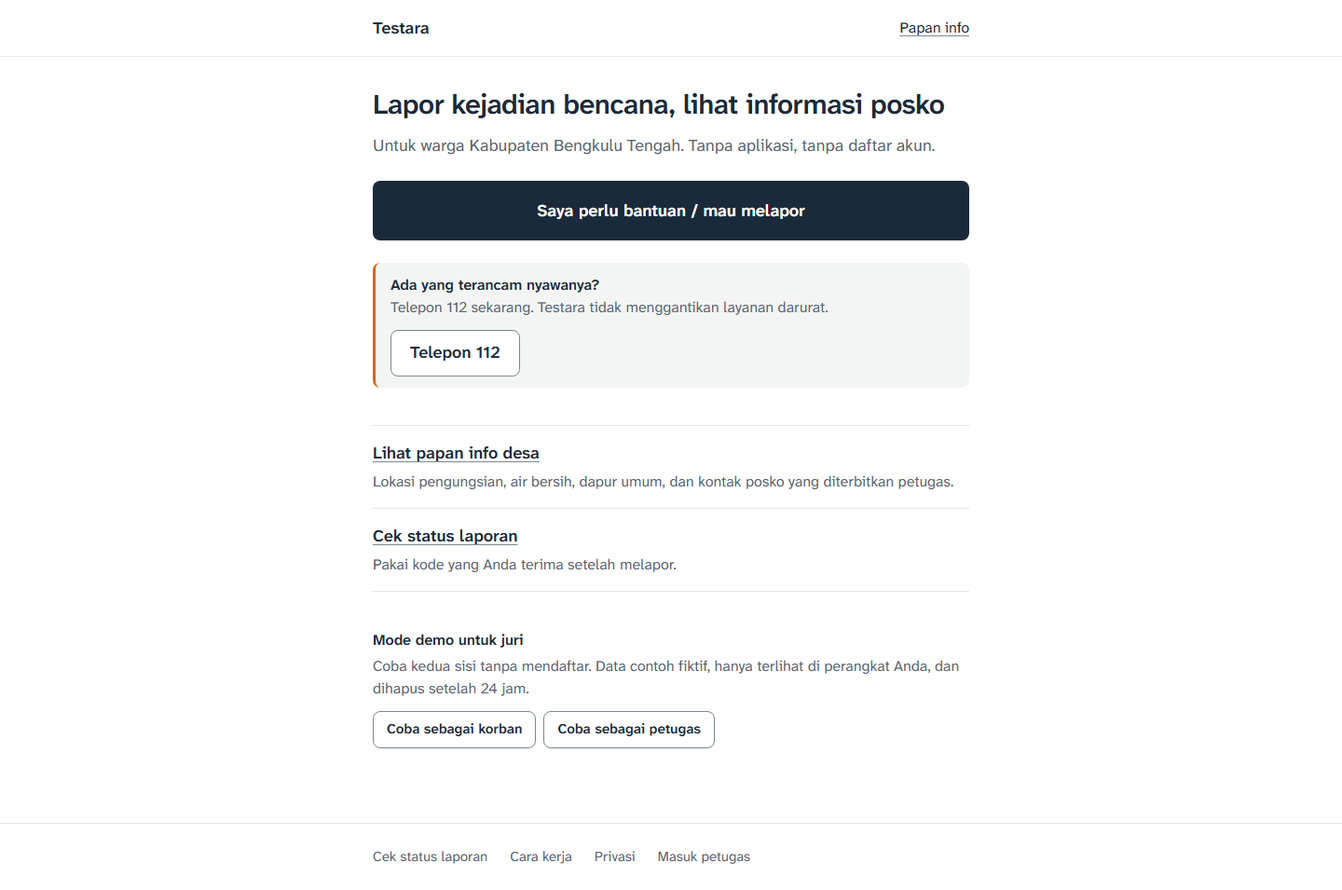
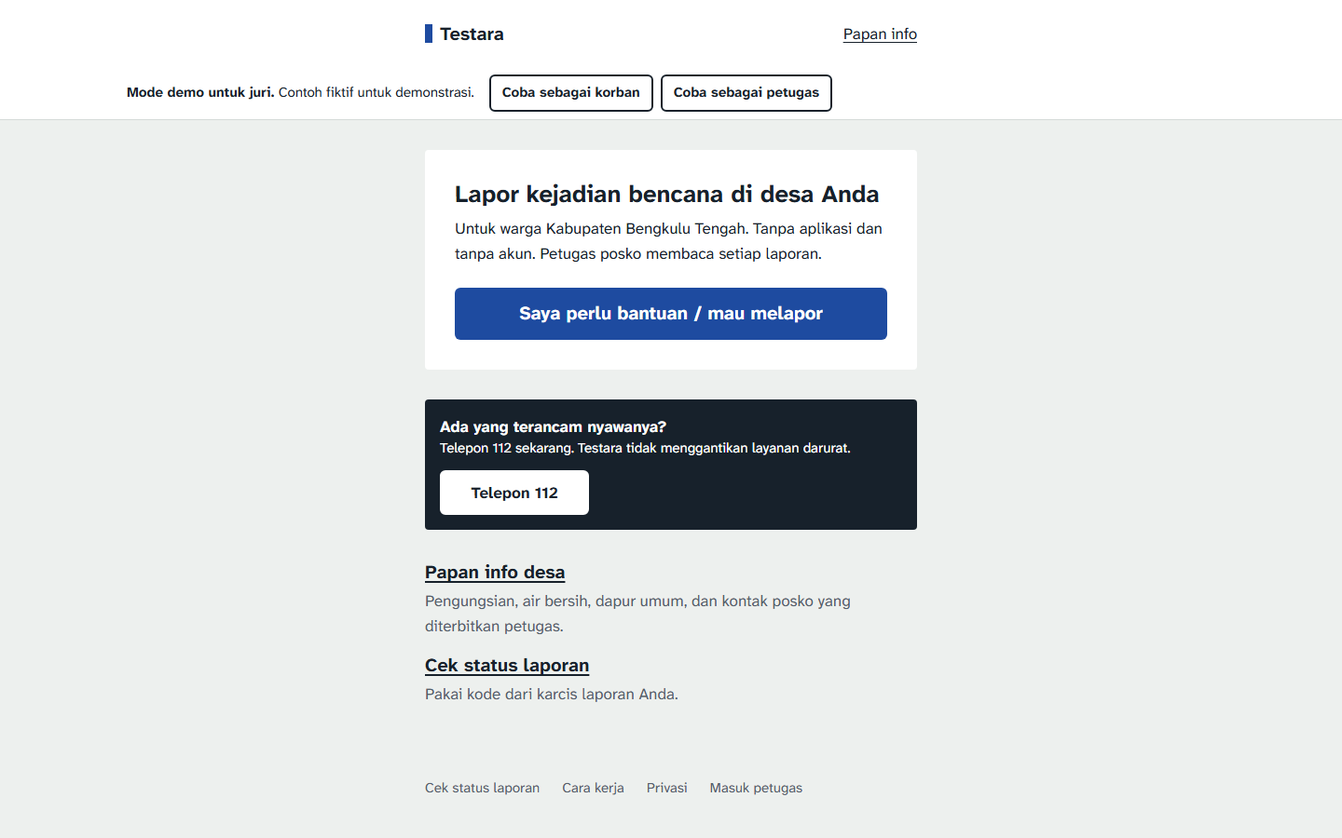
docs: tulis ulang DESIGN.md arah karcis, screenshot after, dan hasil audit

diff --git a/docs/DESIGN.md b/docs/DESIGN.md
@@ -1,239 +1,133 @@
-# Rencana desain Testara
+# Desain Testara: karcis dan papan tulis posko
 
-Diputuskan dalam mode otonom (CLAUDE.md Bagian 0A dan 7). Silakan tinjau; semua nilai ada di satu tempat (`src/app/globals.css`) sehingga mudah diubah.
+Arah ini dipilih pada 16 November 2026 dan menggantikan semua arahan desain sebelumnya. Audit,
+dua arah yang dibandingkan, dan screenshot sebelum/sesudah ada di
+[`docs/design-audit/`](design-audit/AUDIT.md). Semua token ada di satu tempat:
+[`src/app/globals.css`](../src/app/globals.css).
+
+## Konsep
+
+Setiap laporan adalah **karcis** yang disobek dari blok posko, dan setiap papan info adalah
+**papan tulis** yang ditulisi petugas. Korban mengenal karcis dari antrean puskesmas, bank, dan
+posko: "saya sudah dapat nomor, tinggal menunggu." Petugas mengenal papan tulis posko sebagai
+tempat angka ditulis, dicoret, dan ditandai stabilo.
 
 ## Prinsip
 
-1. **Dua wajah, satu identitas.** Sisi korban lapang dan tenang; sisi petugas padat seperti meja kerja. Token warna, huruf, dan nada bahasa sama.
-2. **Satu tugas per layar untuk korban.** Halaman lapor adalah satu kolom, urutan pertanyaan mengikuti cara orang bercerita: di mana, butuh apa, siapa yang perlu didahulukan, ceritanya.
-3. **Keberanian visual hanya di tanda terima.** Kode laporan besar, kalimat penenang, linimasa status. Elemen lain tenang.
-4. **Oranye berarti "perlu tindakan".** Tidak dipakai untuk hiasan. Stabilo kuning hanya untuk kutipan sumber.
-5. **Ringan.** Halaman korban tanpa library UI, tanpa gambar, satu keluarga huruf.
+1. **Satu aksi utama per layar**, berwarna spidol biru penuh. Aksi lain bergaris tinta atau
+   bergaris bawah.
+2. **Bagian dipisah dengan ruang.** Halaman berlatar papan; isi utama di atas satu lembar putih.
+   Tidak ada kotak di dalam kotak, kecuali isian dan pemberitahuan yang memang meminta perhatian.
+3. **Setiap warna aksen punya satu makna** dan tidak pernah jadi satu-satunya penanda.
+4. **Karcis adalah satu-satunya elemen berani.** Tepi sobeknya adalah satu-satunya hiasan bentuk.
 
-## Palet
+## Token
 
-| Token         | Hex       | Peran                                                                          | Kontras                                                                    |
-| ------------- | --------- | ------------------------------------------------------------------------------ | -------------------------------------------------------------------------- |
-| `bg`          | `#F3F5F4` | latar halaman                                                                  |                                                                            |
-| `surface`     | `#FFFFFF` | panel, kolom isian                                                             |                                                                            |
-| `ink`         | `#1B2A3A` | teks utama, tombol utama                                                       | 14,6:1 di `surface`, 13,4:1 di `bg`                                        |
-| `ink-2`       | `#566573` | teks sekunder                                                                  | 6,0:1 di `surface`, 5,5:1 di `bg`                                          |
-| `line`        | `#C9D1CD` | pemisah 1 px, bingkai isian                                                    | (non-teks)                                                                 |
-| `line-strong` | `#7A8890` | bingkai isian dan checkbox                                                     | 3,6:1 di `surface` (komponen UI, min. 3:1)                                 |
-| `action`      | `#E8620C` | penanda urgensi tinggi, angka berbeda, belum diperiksa (garis, titik, bingkai) | 3,4:1 (non-teks, min. 3:1)                                                 |
-| `action-ink`  | `#A84505` | teks oranye                                                                    | 6,0:1 di `surface`, 5,2:1 di `action-wash`                                 |
-| `action-wash` | `#FDEBDD` | latar tipis baris mendesak                                                     |                                                                            |
-| `mark`        | `#FFE14D` | stabilo kutipan sumber                                                         | teks `ink` di atasnya 11,2:1                                               |
-| `done`        | `#2E7D4F` | selesai/terkonfirmasi                                                          | 5,1:1 di `surface`; tidak dipakai sebagai teks di atas `done-wash` (4,3:1) |
-| `done-wash`   | `#E3F1E8` | latar tipis langkah selesai                                                    |                                                                            |
-| `focus`       | `#1F5FBF` | cincin fokus 3 px                                                              | 6,1:1 di `surface`                                                         |
+### Warna
 
-Perubahan dari token awal: menambah `line`, `line-strong`, `action-ink`, `action-wash`, `done-wash`, dan `focus`. Alasan: `#E8620C` sebagai teks hanya 3,4:1 sehingga butuh varian gelap; cincin fokus perlu warna yang tidak bentrok dengan oranye (urgensi) maupun hijau (selesai).
+| Token                    | Hex       | Satu makna                                                      | Kontras                                |
+| ------------------------ | --------- | --------------------------------------------------------------- | -------------------------------------- |
+| `bg` (papan)             | `#EDF0EE` | latar halaman                                                   |                                        |
+| `surface` (kertas)       | `#FFFFFF` | lembar dan karcis                                               |                                        |
+| `ink`                    | `#17212B` | teks; blok ajakan menelepon 112                                 | 16,3:1 di putih, 14,2:1 di papan       |
+| `ink-2`                  | `#55606B` | teks sekunder                                                   | 6,4:1 di putih, 5,6:1 di papan         |
+| `line`                   | `#D5DBD8` | pemisah tabel dan daftar                                        | non-teks                               |
+| `line-strong`            | `#7A8890` | bingkai isian, kotak centang                                    | 3,6:1 di putih (komponen UI, min. 3:1) |
+| `spidol`                 | `#1E4BA0` | aksi utama dan pilihan terpilih                                 | putih di atasnya 8,2:1                 |
+| `spidol-wash`            | `#E7EDF8` | latar pilihan terpilih                                          | tinta di atasnya 13,9:1                |
+| `action` (spidol oranye) | `#B0450F` | perlu tindakan: mendesak, angka berbeda, belum diperiksa, error | 5,7:1 di putih, 4,9:1 di `action-wash` |
+| `action-wash`            | `#FBEBE1` | latar pemberitahuan perlu tindakan                              |                                        |
+| `mark` (stabilo)         | `#FFE14D` | kutipan sumber                                                  | tinta di atasnya 12,5:1                |
+| `done`                   | `#23704A` | langkah linimasa yang sudah terjadi                             | 6,0:1 di putih                         |
 
-## Tipografi
+Palet bawaan Tailwind dimatikan (`--color-*: initial`).
 
-- **Atkinson Hyperlegible Next** untuk seluruh UI lewat `next/font/google` (di-host sendiri saat build, tanpa permintaan ke Google saat runtime). Alasan: 1/l/I dan 0/O mudah dibedakan, penting untuk kode laporan dan angka korban.
-- **Atkinson Hyperlegible Mono** hanya untuk kode laporan dan kolom angka di meja periksa, karena kode seperti `TS-7K4Q-9M2X` harus bisa disalin dengan tepat. Angka lain memakai `font-variant-numeric: tabular-nums`.
-- Skala (sisi korban): teks dasar 18 px (minimal 17 px sesuai brief), judul halaman 28 px, judul bagian 20 px, kode laporan 40 px. Sisi petugas: teks dasar 16 px, tabel 15 px.
-- Huruf kalimat biasa di semua label. Tanpa huruf kapital berjarak lebar.
+### Tipografi
 
-## Bentuk dan ruang
+- **Atkinson Hyperlegible Next** untuk semua teks: judul 700, isi 400. Huruf ini dirancang agar
+  1/l/I dan 0/O mudah dibedakan, penting untuk korban lansia dan angka korban yang dibaca petugas
+  yang lelah. Satu keluarga juga menjaga halaman korban tetap ringan.
+- **Atkinson Hyperlegible Mono** hanya untuk kode laporan, karena karcis memang dicetak dengan
+  huruf berjarak sama dan kode harus disalin tepat. Angka lain memakai `tabular-nums`.
+- **Lima ukuran saja** (`--text-*: initial`):
 
-- Radius berhierarki: tombol kebutuhan korban 12 px (besar dan berisi), kolom isian 8 px, panel tanda terima 16 px, panel petugas 0 px dengan pemisah 1 px.
-- Target sentuh minimal 48 px di sisi korban; tombol kebutuhan 64 px.
-- Bayangan hanya untuk elemen melayang (notifikasi "Kode disalin"). Tidak ada bayangan pada kartu.
-- Gerak: hanya sapuan stabilo 200 ms dan perpindahan langkah linimasa; keduanya mati jika `prefers-reduced-motion`.
+  | Token       | Ukuran                           | Peran                                   |
+  | ----------- | -------------------------------- | --------------------------------------- |
+  | `text-sm`   | 15 px                            | meta, petunjuk; teks dasar sisi petugas |
+  | `text-base` | 17 px                            | teks dasar sisi korban                  |
+  | `text-lg`   | 20 px                            | judul bagian                            |
+  | `text-xl`   | 26 px                            | judul halaman                           |
+  | `text-code` | 32-40 px (mengikuti lebar layar) | kode laporan di karcis                  |
 
-## Wireframe
+### Jarak, radius, bayangan
 
-### Korban, mobile: halaman lapor
+- Jarak memakai skala Tailwind kelipatan 4 px; nilai setengah (`py-1.5` dan sejenisnya) dihapus.
+- Kolom isi sisi korban maksimal 560 px; panjang baris paragraf maksimal 68 karakter.
+- Radius per peran: lembar 4 px (`--radius-sheet`), tombol dan isian 6 px (`--radius-control`),
+  karcis tegak dengan tepi sobek.
+- Bayangan hanya untuk elemen yang melayang (`--shadow-float`); saat ini tidak ada yang memakainya.
 
-```
-+----------------------------------+
-| Testara               Papan info |
-+----------------------------------+
-| Ada yang terancam nyawanya?      |   <- pita bergaris kiri oranye
-| Telepon 112 sekarang.            |      tombol "Telepon 112"
-+----------------------------------+
-| Lapor kejadian                   |   <- h1
-|                                  |
-| Desa Anda                        |
-| [ Cari desa...               ]   |   <- daftar saran di bawahnya
-|                                  |
-| Apa yang dibutuhkan?             |
-| [ Evakuasi ]   [ Air bersih ]    |   <- tombol toggle 64 px
-| [ Makanan  ]   [ Obat       ]    |
-| [ Tempat mengungsi ] [ Lainnya ] |
-|                                  |
-| Ada yang perlu didahulukan?      |
-| [ ] Lansia      [ ] Disabilitas  |
-| [ ] Ibu hamil   [ ] Bayi/balita  |
-| [ ] Orang sakit                  |
-|                                  |
-| Ceritakan (boleh singkat)        |
-| [                            ]   |
-| Petunjuk: tekan ikon mikrofon    |
-| di keyboard untuk bicara.        |
-|                                  |
-| (o) Untuk saya  ( ) Orang lain   |
-| Nomor HP (tidak wajib) [       ] |
-| [x] Saya setuju laporan disimpan |
-|                                  |
-| [        Kirim laporan       ]   |
-| Draf tersimpan di HP ini.        |
-+----------------------------------+
-```
+## Komponen dan state
 
-### Korban, mobile: tanda terima (elemen yang diingat)
+| Komponen              | Normal                                                                                       | Hover         | Fokus                  | Aktif                                                                             | Nonaktif                             | Memuat                                     |
+| --------------------- | -------------------------------------------------------------------------------------------- | ------------- | ---------------------- | --------------------------------------------------------------------------------- | ------------------------------------ | ------------------------------------------ |
+| `.btn-primary`        | spidol, teks putih                                                                           | spidol gelap  | cincin tinta 3 px      | tinta                                                                             | latar papan, teks abu, bingkai garis | spidol gelap + putaran 16 px (`aria-busy`) |
+| `.btn-secondary`      | putih, bingkai tinta 2 px                                                                    | latar papan   | cincin tinta           | latar garis                                                                       | sama                                 | sama                                       |
+| `.btn-quiet`          | teks bergaris bawah                                                                          | latar papan   | cincin tinta           | latar garis                                                                       | sama                                 |                                            |
+| `.field`              | bingkai 1,5 px `line-strong`                                                                 | bingkai tinta | bingkai tinta + cincin |                                                                                   | latar papan                          |                                            |
+| `.choice` (kebutuhan) | putih, kotak centang kosong                                                                  | bingkai tinta | cincin tinta           | **centang putih di kotak spidol + garis tepi tebal spidol** + latar `spidol-wash` |                                      |                                            |
+| `.tag-action`         | teks oranye + kotak oranye 8 px + bingkai                                                    |               |                        |                                                                                   |                                      |                                            |
+| `.ticket`             | kepala spidol 8 px, tepi bawah sobek                                                         |               |                        |                                                                                   |                                      |                                            |
+| Linimasa              | sudah: lingkaran hijau bercentang + jam; berikutnya: lingkaran bergaris + "Menunggu petugas" |               |                        |                                                                                   |                                      |                                            |
 
-```
-+----------------------------------+
-| Testara               Papan info |
-+----------------------------------+
-| Laporan Anda sudah kami terima.  |   <- h1, 28 px
-| Simpan kode ini untuk melihat    |
-| perkembangannya.                 |
-|                                  |
-| +------------------------------+ |
-| |  TS-7K4Q-9M2X                | |   <- 40 px mono, panel putih radius 16
-| |  [ Salin kode ]              | |
-| +------------------------------+ |
-|                                  |
-| (*) Diterima        21.10        |   <- linimasa vertikal, titik hijau
-|  |                               |
-| ( ) Dibaca petugas               |
-|  |                               |
-| ( ) Masuk laporan resmi          |
-|     atau perlu konfirmasi        |
-|                                  |
-| Status ini menunjukkan laporan   |
-| Anda sudah diproses petugas,     |
-| bukan jaminan waktu kedatangan   |
-| bantuan.                         |
-|                                  |
-| [ Lihat papan info Desa X ]      |
-+----------------------------------+
-```
+Putaran memuat diam jika `prefers-reduced-motion`. Gerak lain hanya sapuan stabilo 200 ms.
 
-### Korban, mobile: papan info desa
+## Keputusan per halaman
 
-```
-+----------------------------------+
-| Testara               Papan info |
-+----------------------------------+
-| Papan info Desa X                |
-| Diperbarui 21.40, 14 Nov         |
-| [ Bagikan ke WhatsApp ]          |
-|                                  |
-| Tanya papan info                 |
-| [ Di mana ambil air bersih? ] [>]|
-| Jawaban ... (dari: Titik air 1)  |
-|                                  |
-| Pengungsian                      |
-|  Balai Desa X - jl. ...          |
-| Titik bantuan                    |
-|  Air bersih - ...                |
-| Kebutuhan diumumkan              |
-| Kontak posko                     |
-+----------------------------------+
-```
-
-### Petugas, desktop: antrean
-
-```
-+---------------------------------------------------------------------+
-| Testara  Petugas    Antrean   Tambah WA   Kejadian   Papan    Keluar |
-+---------------------------+-----------------------------------------+
-| Antrean (14)  [desa v][st]| Laporan TS-7K4Q-9M2X                    |
-|                           | Desa X, 21.10, dari formulir            |
-| Mendesak (3)              | Dirapikan otomatis. Periksa sebelum     |
-| | Desa X  evakuasi, lansia|  ditindaklanjuti.                       |
-| | Desa Y  terjebak        | Kebutuhan: evakuasi, obat               |
-| Lainnya (11)              | Didahulukan: lansia                     |
-|   Desa Z  air bersih      | Urgensi tinggi karena: "nenek tdk bisa  |
-|   ...                     |  keluar rmh" (aturan + AI)              |
-|                           | Cerita: ... [kutipan tersorot] ...      |
-|                           | [Tandai dibaca] [Masuk laporan resmi]   |
-|                           | [Perlu konfirmasi]  Urgensi [v]         |
-+---------------------------+-----------------------------------------+
-```
-
-Baris mendesak ditandai garis kiri oranye 4 px, bukan latar merah.
-
-### Petugas, mobile
-
-Antrean dan detail jadi dua langkah: daftar (`/petugas`) lalu detail (`/petugas?laporan=<id>`) dengan tautan "Kembali ke antrean" di atas.
-
-### Petugas, desktop: meja periksa kejadian
-
-```
-+---------------------------------------------------------------------+
-| Kejadian: Banjir, Desa X              5 laporan, 2 angka berbeda    |
-+-------------------------------+-------------------------------------+
-| Angka                         | Pesan sumber                        |
-| Mengungsi (KK)                | 21.02 WhatsApp                      |
-|  ! 12 (2 pelapor)  [pilih]    |  "...sdh [12 kk] ngungsi di..."     |
-|  ! 15 (1 pelapor)  [pilih]    | 21.15 Formulir                      |
-| Rumah terendam   30           |  "...kira2 [15 kk] di balai..."     |
-| Meninggal        tidak disebut|                                     |
-|                [Simpan pilihan]                                     |
-+-------------------------------+-------------------------------------+
-```
-
-Klik angka: panel kanan menggulir ke pesan dan kutipan diberi sapuan stabilo.
+- **Beranda**: pita mode demo selebar layar di paling atas, satu lembar dengan judul dan tombol
+  utama, blok tinta "Ada yang terancam nyawanya?", lalu dua tautan.
+- **Lapor**: blok tinta ajakan 112 paling atas, satu lembar formulir, kartu kebutuhan bercentang.
+  Ringkasan error hilang per baris begitu isian diperbaiki.
+- **Tanda terima dan status**: karcis berkepala biru dengan kode besar, "Salin kode", dan tautan
+  halaman status; linimasa dan kalimat "bukan jaminan waktu kedatangan bantuan" (tebal) di lembar
+  di bawahnya.
+- **Papan info**: stempel "Diperbarui petugas" di bawah judul, kotak tanya di lembar sendiri.
+  Jawaban yang didukung bergaris spidol; "Belum ada informasi resmi untuk itu" berjudul besar
+  dengan garis tinta dan kontak posko.
+- **Antrean**: kolom kiri seperti tabel kerja: penanda "Mendesak" berteks, desa, jam, kebutuhan,
+  kode laporan, status. Bagian "Mendesak" berjudul oranye. Header petugas tidak lagi patah tiga
+  baris; menu bisa digeser ke samping di layar sempit.
+- **Detail laporan**: penanda "Mendesak", "Belum diverifikasi", dan status di bawah judul;
+  label "Dirapikan otomatis. Periksa sebelum ditindaklanjuti." atau "Belum dirapikan AI".
+- **Meja periksa**: tabel hanya berisi angka yang disebut; sisanya satu kalimat "Tidak disebut di
+  pesan mana pun: ...". Angka berbeda ditandai garis dan penanda berteks.
+- **Tambah dari WhatsApp**: tombol "Pilih berkas" berbahasa Indonesia menggantikan input bawaan
+  browser; tombol nonaktif berbunyi "Tempel pesan dulu".
 
 ## Cek terhadap daftar larangan
 
-| Larangan                                                                                            | Status                                                                                                          |
-| --------------------------------------------------------------------------------------------------- | --------------------------------------------------------------------------------------------------------------- |
-| Krem hangat + serif + terakota; latar hampir hitam + neon; gaya koran                               | Tidak dipakai. Latar abu dingin, satu sans, aksen oranye fungsional.                                            |
-| Kartu membulat identik, radius seragam, bayangan tipis seragam, gradien, glass, blob                | Radius berhierarki, panel petugas tanpa radius, bayangan hanya untuk toast.                                     |
-| Label kapital berjarak lebar, meta "A · B · C", "KATA — penggalan", panah di tombol, mono dekoratif | Meta ditulis dengan koma. Mono hanya untuk kode dan angka. Tidak ada panah.                                     |
-| Satu kata di judul diberi gaya berbeda                                                              | Tidak ada.                                                                                                      |
-| Penanda 01/02/03 non-urutan                                                                         | Hanya linimasa status, yang memang berurutan, dan tanpa nomor.                                                  |
-| Sparkle, "Powered by AI", emoji                                                                     | Label AI berupa kalimat biasa: "Dirapikan otomatis. Periksa sebelum ditindaklanjuti."                           |
-| Ilustrasi bencana, merah alarm, hitung mundur                                                       | Tidak ada gambar. Merah tidak dipakai; urgensi oranye sebagai garis.                                            |
-| Hero pemasaran, grid tiga kartu, testimoni/logo/statistik palsu                                     | Beranda berisi tombol utama, tautan papan info, pita demo. Statistik hanya dua fakta bersumber di "Cara kerja". |
-| Animasi scroll, hover membesar                                                                      | Tidak ada. Hover hanya ganti warna latar/garis.                                                                 |
-| Inter/Poppins/dst, palet bawaan Tailwind                                                            | Atkinson Hyperlegible; warna hanya dari token `@theme` sendiri.                                                 |
-| shadcn bawaan                                                                                       | Tidak memakai shadcn. Komponen ditulis sendiri.                                                                 |
-| Kata promosi                                                                                        | Dicek di salinan UI.                                                                                            |
+| Larangan                                                                       | Status                                                                                                  |
+| ------------------------------------------------------------------------------ | ------------------------------------------------------------------------------------------------------- |
+| Krem + serif + terakota; hampir hitam + neon; gaya koran                       | Papan abu-hijau dingin, tanpa serif, oranye hanya untuk perlu tindakan. Garis hanya di tabel petugas.   |
+| Kartu seragam, satu radius, bayangan seragam, gradien hias, glass, blob        | Tiga radius per peran, tanpa bayangan. `linear-gradient` hanya untuk animasi sapuan stabilo satu warna. |
+| Label kapital kecil, titik tengah, "KATA — penggalan", panah, mono untuk label | Tidak ada. Mono hanya untuk kode laporan.                                                               |
+| Satu kata judul diberi gaya beda                                               | Tidak ada.                                                                                              |
+| 01/02/03                                                                       | Tidak ada. Kode laporan sungguhan dipakai sebagai nomor karcis.                                         |
+| Sparkle, "Powered by AI", emoji, kartun, merah alarm                           | Tidak ada. Status AI berupa teks.                                                                       |
+| Animasi setiap section, hover membesar                                         | Tidak ada.                                                                                              |
+| Font terlarang, shadcn bawaan                                                  | Atkinson saja, tanpa shadcn.                                                                            |
 
-## Yang saya ubah setelah cek
+## Hiasan yang dibuang
 
-- Rencana awal memberi beranda tiga blok berdampingan (lapor, papan info, status). Itu mendekati "grid tiga kartu", jadi diganti satu tombol utama besar dan dua tautan teks di bawahnya.
-- Rencana awal memakai latar oranye penuh untuk pita "terancam nyawa". Terlalu memicu panik; diganti panel putih dengan garis kiri oranye dan tombol telepon berwarna tinta.
+Garis hijau di stempel "Diperbarui petugas" pada papan info. Hijau bermakna "langkah sudah
+terjadi" di linimasa; di stempel ia hanya hiasan.
 
-## Kritik setelah screenshot (Fase 5)
+## Aksesibilitas
 
-Tangkapan layar 375 px dan 1440 px ada di `docs/screenshots/` (buat ulang dengan `npm run screenshots`). Temuan dan perbaikannya:
-
-| Temuan                                                                                                                              | Perbaikan                                                                                                                                                                                          |
-| ----------------------------------------------------------------------------------------------------------------------------------- | -------------------------------------------------------------------------------------------------------------------------------------------------------------------------------------------------- |
-| Kode laporan di tanda terima patah dua baris di 375 px ("TS-EYXQ-MNG / V"). Ini elemen yang paling diingat, jadi tidak boleh patah. | Ukuran kode memakai `clamp()` dan `white-space: nowrap`.                                                                                                                                           |
-| "Evakuasi/terjebak" menempel ke tepi kartu di 360–375 px.                                                                           | `<wbr>` setelah garis miring, padding kartu dikurangi. Nama yang dibacakan pembaca layar tetap "Evakuasi/terjebak" lewat `aria-label`.                                                             |
-| Tautan butir jawaban tanya berbunyi "Titik bantuan: Air bersih: Tandon air bersih".                                                 | Butir titik bantuan cukup menampilkan judulnya.                                                                                                                                                    |
-| Tanpa AI, judul kejadian tertulis "Lainnya, Desa ...", seolah jenis bencananya "lainnya".                                           | Ditulis "Jenis bencana belum diketahui".                                                                                                                                                           |
-| Pada jaringan lambat, formulir bisa dikirim sebelum JavaScript termuat dan isian hilang.                                            | Formulir dibuat progressive enhancement: kirim biasa ke `/api/reports/form` tanpa JS, tombol kebutuhan memakai checkbox asli, isian tidak dikendalikan React sehingga tidak terhapus saat hidrasi. |
-| Hiasan yang dibuang: garis putus-putus di panel mode demo beranda. Tidak membawa makna.                                             | Diganti garis biasa seperti panel lain.                                                                                                                                                            |
-
-Cek ulang terhadap daftar larangan: tidak ada gradien hiasan (sapuan stabilo memakai `background-size` satu warna sebagai animasi fungsional), tidak ada emoji/ikon AI, tidak ada label kapital berjarak, tidak ada panah di tombol, tidak ada kartu seragam berbayangan. Meja periksa dengan angka berbeda belum bisa difoto dalam keadaan sebenarnya karena angka hanya muncul dari ekstraksi AI, dan kunci AI belum tersedia.
-
-## Revisi: lebih bersih dan minimalis (16 November 2026)
-
-Permintaan: tampilan dibuat lebih bersih dan minimalis. Palet, tipografi, dan prinsip tetap; yang berubah adalah berat visual.
-
-| Sebelum                                                          | Sesudah                                                                                        | Alasan                                                      |
-| ---------------------------------------------------------------- | ---------------------------------------------------------------------------------------------- | ----------------------------------------------------------- |
-| Halaman abu `#F3F5F4` dengan panel putih berbingkai              | Halaman putih; `bg` dipakai hanya sebagai latar tipis blok pemberitahuan dan baris terpilih    | Lebih sedikit "kotak di dalam kotak"                        |
-| Garis `line` `#C9D1CD`                                           | `#E2E7E4` (hairline)                                                                           | Pemisah terasa, tidak menonjol                              |
-| Bingkai tombol, kolom, dan kartu kebutuhan 1,5 sampai 2 px       | 1 px `line-strong` (3,6:1, tetap lolos 3:1 untuk komponen UI)                                  | Lebih ringan                                                |
-| Judul dan label `700`                                            | `600`, judul `h1` dirapatkan sedikit                                                           | Hierarki lewat ukuran dan ruang, bukan ketebalan            |
-| Blok pemberitahuan: panel putih berbingkai + garis oranye        | Kelas `.notice`: latar tipis tanpa bingkai, garis oranye 3 px hanya jika perlu tindakan        | Oranye tetap khusus "perlu tindakan"                        |
-| Kalimat "bukan jaminan waktu kedatangan bantuan" bergaris oranye | Teks sekunder biasa                                                                            | Bukan hal yang perlu tindakan                               |
-| Tanda terima: bingkai tinta 2 px                                 | Blok latar tipis radius 16 px, kode tetap besar                                                | Elemen yang diingat tetap paling menonjol lewat ukuran kode |
-| Header petugas berlatar tinta                                    | Putih dengan garis bawah hairline                                                              | Alat kerja yang tenang; konten jadi fokus                   |
-| Tombol "quiet" berbingkai abu                                    | Tombol teks bergaris bawah, teks sejajar dengan isi lain                                       | Satu tombol utama per layar terlihat jelas                  |
-| Beranda: tombol demo dan tautan tersebar                         | Tombol utama, pemberitahuan darurat, dua tautan dalam daftar bergaris, lalu mode demo di bawah | Urutan baca sesuai prioritas                                |
-
-Target sentuh 48 px, kontras AA, dan fokus keyboard tidak berubah. Tangkapan layar di `docs/screenshots/` sudah dibuat ulang.
+- `tests/e2e/a11y.spec.ts` menjalankan axe (WCAG 2 A/AA dan 2.1 AA) di beranda, lapor (kosong dan
+  error), cek status, daftar papan, cara kerja, privasi, tanda terima, dan papan info dengan
+  jawaban "belum ada". Hasil terakhir: 0 pelanggaran, termasuk kontras.
+- Target sentuh minimal 48 px di sisi korban (40 px untuk tombol ringkas di pita demo dan sisi
+  petugas), fokus keyboard berupa cincin tinta 3 px (stabilo di atas blok tinta), dan tata letak
+  diuji di 375 px; pada 360 px kartu kebutuhan tetap dua kolom dan kode karcis mengecil lewat
+  `clamp()`.

diff --git a/docs/design-audit/AUDIT.md b/docs/design-audit/AUDIT.md
@@ -237,3 +237,22 @@ Saya berhenti di sini dan menunggu pilihan Anda sebelum mengubah kode tampilan.
 - Input berkas berbahasa Inggris di "Tambah dari WhatsApp".
 - Header petugas yang patah menjadi tiga baris di layar sempit.
 - Urgensi yang hanya ditandai warna di antrean dan daftar kejadian.
+
+## Langkah 3 dan 4: hasil (Arah A dipilih)
+
+Screenshot sesudah: `docs/design-audit/after/` (buat ulang dengan `npm run screenshots:audit`).
+Token dan alasan keputusan: [`docs/DESIGN.md`](../DESIGN.md).
+
+| Masalah dari audit                         | Sesudah                                                                                                                                    |
+| ------------------------------------------ | ------------------------------------------------------------------------------------------------------------------------------------------ |
+| Tidak punya identitas                      | Karcis berkepala biru bertepi sobek di tanda terima, status, dan cara kerja; papan abu-hijau sebagai latar.                                |
+| Semua blok sama beratnya                   | Ajakan 112 berupa blok tinta, error berupa blok oranye muda bergaris oranye, tanya dan isi papan di lembar putih, pita demo selebar layar. |
+| Terlalu pucat, terlalu banyak ukuran huruf | Tombol utama spidol biru penuh; lima ukuran huruf.                                                                                         |
+| Urgensi hanya warna                        | Penanda "Mendesak", "Belum diperiksa", dan "angka berbeda" berupa teks + kotak oranye.                                                     |
+| Ringkasan error tidak hilang               | Hilang per baris begitu isian diperbaiki.                                                                                                  |
+| Input berkas berbahasa Inggris             | Tombol "Pilih berkas" + nama berkas.                                                                                                       |
+| Header petugas tiga baris di HP            | Satu baris logo + Keluar, menu bisa digeser.                                                                                               |
+| Tombol nonaktif tampak rusak               | Gaya nonaktif sendiri dan teks yang menjelaskan ("Tempel pesan dulu").                                                                     |
+
+Kritik setelah screenshot sesudah: pita demo di beranda sempat tampil sebagai kotak di dalam
+kolom (kini selebar layar), dan garis hijau stempel "Diperbarui petugas" dibuang sebagai hiasan.
